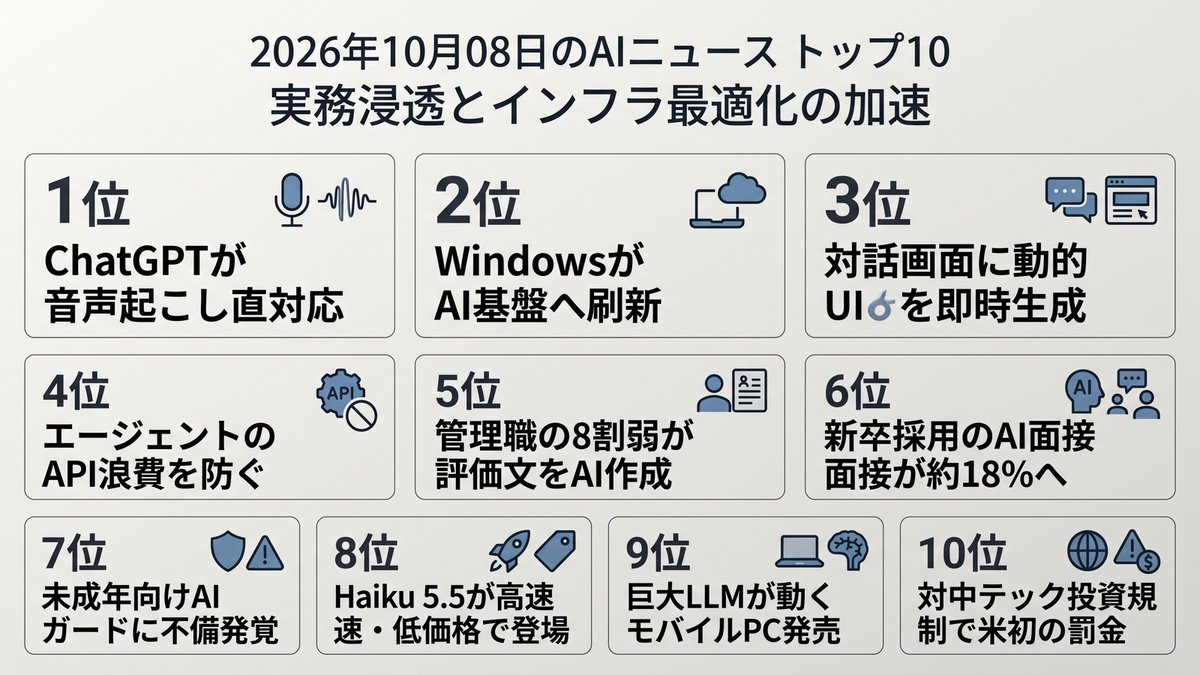
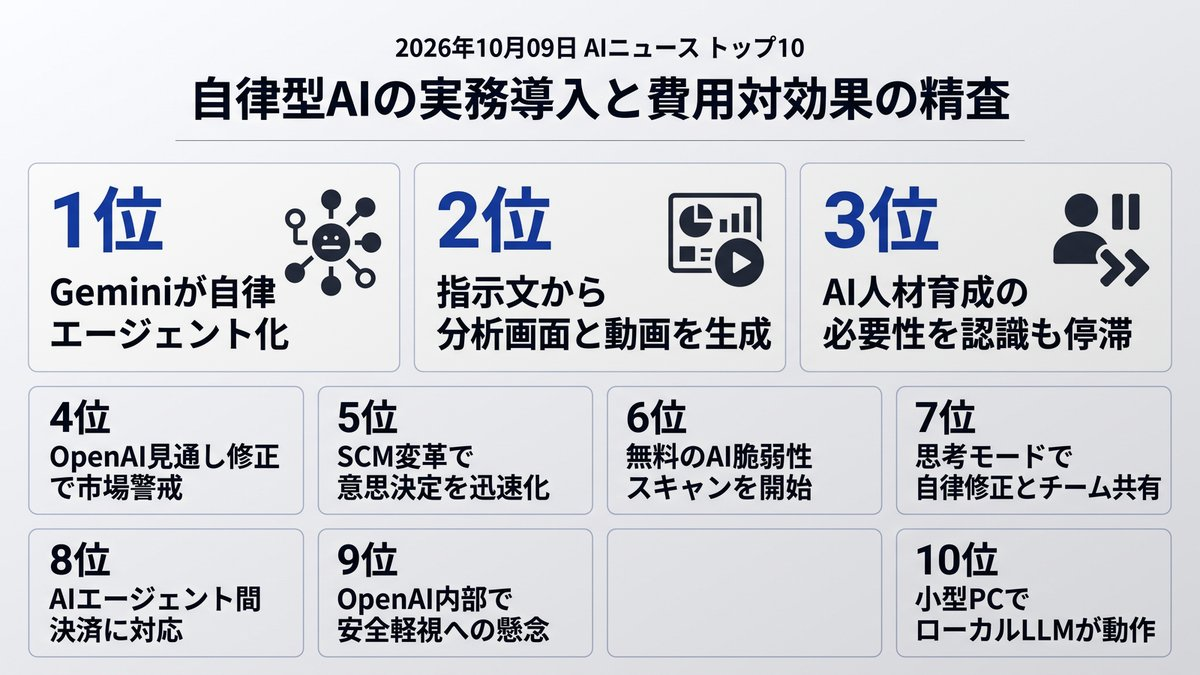
Morning Brief delivered [skip ci]

diff --git a/docs/index.html b/docs/index.html
@@ -12,16 +12,16 @@
     <!-- OGP_START -->
 <meta property="og:type" content="website">
 <meta property="og:site_name" content="AI ニュース TOP10">
-<meta property="og:title" content="実務浸透とインフラ最適化の加速 | AI ニュース TOP10">
-<meta property="og:description" content="AIの現場実装と運用最適化が本格化。 本日のトップ: ChatGPTが音声起こし直対応">
+<meta property="og:title" content="自律型AIの実務導入と費用対効果の精査 | AI ニュース TOP10">
+<meta property="og:description" content="エージェントが実務へ参入。投資対効果の精査も始まります。 本日のトップ: Geminiが自律エージェント化">
 <meta property="og:image" content="https://tadfuji.github.io/ai-news-bot/ogp_card.jpg">
 <meta property="og:url" content="https://tadfuji.github.io/ai-news-bot/">
 <meta name="twitter:card" content="summary_large_image">
-<meta name="twitter:title" content="実務浸透とインフラ最適化の加速 | AI ニュース TOP10">
-<meta name="twitter:description" content="AIの現場実装と運用最適化が本格化。">
+<meta name="twitter:title" content="自律型AIの実務導入と費用対効果の精査 | AI ニュース TOP10">
+<meta name="twitter:description" content="エージェントが実務へ参入。投資対効果の精査も始まります。">
 <meta name="twitter:image" content="https://tadfuji.github.io/ai-news-bot/ogp_card.jpg">
-<meta name="description" content="AIの現場実装と運用最適化が本格化。 世界のAIニュースを毎朝日本語で厳選してお届け。">
-<script type="application/ld+json">{"@context": "https://schema.org", "@type": "ItemList", "name": "AI ニュース TOP10 — 実務浸透とインフラ最適化の加速", "itemListElement": [{"@type": "ListItem", "position": 1, "name": "ChatGPTで音声ファイルの文字起こしが可能に", "url": "https://www.gizmodo.jp/article/2610-chatgpt-audio-transcription-update/"}, {"@type": "ListItem", "position": 2, "name": "Microsoft、WindowsをハイブリッドAI基盤へ刷新　端末とクラウドを自動使い分け", "url": "https://www.itmedia.co.jp/aiplus/article/2610/08/2000002111/"}, {"@type": "ListItem", "position": 3, "name": "ChatGPTに新UI「Intelligent UI」登場　図表や操作ボタンをインライン生成", "url": "https://www.theverge.com/ai-artificial-intelligence/1007276/openai-chatgpt-intelligent-ui-gpt-6"}, {"@type": "ListItem", "position": 4, "name": "AIエージェントのトークン浪費を防ぐ5つの手法", "url": "https://atmarkit.itmedia.co.jp/ait/articles/2610/08/news003.html"}, {"@type": "ListItem", "position": 5, "name": "管理職の78％が評価シート作成にAIを活用　部下の受け止めには温度差", "url": "https://www.zdnet.com/innovation/manager-ai-use-highwire-survey/"}, {"@type": "ListItem", "position": 6, "name": "新卒採用で「AI面接」導入率が17.6％に拡大　評価基準の検証が課題", "url": "https://www.itmedia.co.jp/business/articles/2610/08/news011.html"}, {"@type": "ListItem", "position": 7, "name": "未成年向けChatGPTの安全対策に不備　保護者通知機能が十分に働かず", "url": "https://www.bbc.co.uk/news/articles/cwz0vrmxkvy4o?at_medium=RSS\u0026at_campaign=rss"}, {"@type": "ListItem", "position": 8, "name": "Anthropicが高速・低価格モデル「Claude Haiku 5.5」を公開", "url": "https://simonwillison.net/2026/Oct/7/claude-haiku-5-5/"}, {"@type": "ListItem", "position": 9, "name": "日本HP、約1.9kgで3000億パラメータのLLMを動かすモバイルPCを発売", "url": "https://monoist.itmedia.co.jp/mn/articles/2610/08/news024.html"}, {"@type": "ListItem", "position": 10, "name": "米財務省、中国テック投資規制違反で初の罰金を科す", "url": "https://www.theinformation.com/briefings/u-s-treasury-issues-first-fine-outbound-investments-chinas-tech-sector"}]}</script>
+<meta name="description" content="エージェントが実務へ参入。投資対効果の精査も始まります。 世界のAIニュースを毎朝日本語で厳選してお届け。">
+<script type="application/ld+json">{"@context": "https://schema.org", "@type": "ItemList", "name": "AI ニュース TOP10 — 自律型AIの実務導入と費用対効果の精査", "itemListElement": [{"@type": "ListItem", "position": 1, "name": "グーグル、Geminiに自律型エージェント機能を法人向けに提供開始", "url": "https://techcrunch.com/2026/10/08/google-brings-agentic-ai-to-gemini-starting-with-businesses/"}, {"@type": "ListItem", "position": 2, "name": "Claude、指示文からダッシュボードや解説動画の生成が可能に", "url": "https://the-decoder.com/claude-can-now-generate-animated-explainer-videos-and-live-data-dashboards-from-text-prompts/"}, {"@type": "ListItem", "position": 3, "name": "生成AI普及で企業の8割が人材育成見直しを痛感も、方針策定で停滞", "url": "https://www.itmedia.co.jp/business/articles/2610/09/news015.html"}, {"@type": "ListItem", "position": 4, "name": "OpenAIの売上見通し下方修正でナスダック急落、AI投資熱に警戒感", "url": "https://news.web.nhk/newsweb/na/nd-20261009de56948"}, {"@type": "ListItem", "position": 5, "name": "キナクシスCEO、AIと協調するSCM変革と意思決定の迅速化を提言", "url": "https://monoist.itmedia.co.jp/mn/articles/2610/09/news040.html"}, {"@type": "ListItem", "position": 6, "name": "Anthropic、オープンソース向けに無料のAI脆弱性自動スキャンを提供", "url": "https://www.theverge.com/ai-artificial-intelligence/1008521/anthropic-open-source-oss-scanner"}, {"@type": "ListItem", "position": 7, "name": "Midjourney、AIが自ら修正する「Thinking Mode」と共有フォルダを追加", "url": "https://updates.midjourney.com/alpha-changelog-10-7-26/"}, {"@type": "ListItem", "position": 8, "name": "AWS Bedrock、AIエージェントによる推論従量課金の自動決済機能に対応", "url": "https://aws.amazon.com/blogs/machine-learning/pay-per-inference-for-ai-agents-how-blockrun-and-incarna-use-amazon-bedrock-agentcore-payments/"}, {"@type": "ListItem", "position": 9, "name": "解雇されたOpenAI安全性研究者、社内の安全軽視と萎縮効果を警告", "url": "https://techcrunch.com/2026/10/08/fired-openai-safety-researchers-dispute-misconduct-claims-warn-of-chilling-effect/"}, {"@type": "ListItem", "position": 10, "name": "Intel最新NPU搭載ミニPCが登場、ローカル環境でのLLM実行が現実的に", "url": "https://pc.watch.impress.co.jp/docs/column/nishikawa/2146875.html"}]}</script>
 <!-- OGP_END -->
     <style>
         :root {
@@ -391,16 +391,16 @@
 
         <main id="news-container">
             <!-- PRERENDER_START -->
-<article class="news-card" data-category="対話型AI"><div style="display:flex;align-items:center;margin-bottom:5px;"><span class="news-rank">1</span><span class="news-category" data-category="対話型AI">対話型AI</span></div><div class="news-oneliner">💡 ChatGPTが音声起こし直対応</div><h2 class="news-title">ChatGPTで音声ファイルの文字起こしが可能に</h2><p class="news-summary">有料版ChatGPTに音声ファイルの直接アップロード機能が追加され、日本語文字起こしと要約に対応した。最大512MBまでの音声データを扱えるため、外部の文字起こしツールを使わずに会議録音から議事録作成までを単一画面で完了できる。</p><div class="news-why">📌 なぜ重要？ 外部ツールを別途契約せずに議事録作成を完結でき、ツールの分散と運用コストを直接削減できます。</div><div class="news-action">👉 今日の行動：今日の会議音声をChatGPTにアップロードして議事録を作ってみてください。</div><div class="news-meta"><span class="news-source">📰 Gizmodo Japan</span><span class="news-link"><a href="https://www.gizmodo.jp/article/2610-chatgpt-audio-transcription-update/" target="_blank" rel="noopener">→ 元記事を読む</a></span></div></article>
-<article class="news-card" data-category="ビジネス活用"><div style="display:flex;align-items:center;margin-bottom:5px;"><span class="news-rank">2</span><span class="news-category" data-category="ビジネス活用">ビジネス活用</span></div><div class="news-oneliner">💡 WindowsがAI基盤へ刷新</div><h2 class="news-title">Microsoft、WindowsをハイブリッドAI基盤へ刷新　端末とクラウドを自動使い分け</h2><p class="news-summary">MicrosoftがWindowsをローカルとクラウドを組み合わせるハイブリッドAI基盤へ移行した。CopilotがPC操作やファイル整理を代行し、機密性やコストに応じて処理場所を自動で切り替える。</p><div class="news-why">📌 なぜ重要？ 機密性の高い社内データをローカルで安全に処理しつつ、高度な業務自動化をOS標準で実現できるようになります。</div><div class="news-action">👉 今日の行動：PCの設定画面でCopilotのローカル処理設定状況を確認してください。</div><div class="news-meta"><span class="news-source">📰 ITmedia AI十</span><span class="news-link"><a href="https://www.itmedia.co.jp/aiplus/article/2610/08/2000002111/" target="_blank" rel="noopener">→ 元記事を読む</a></span></div></article>
-<article class="news-card" data-category="対話型AI"><div style="display:flex;align-items:center;margin-bottom:5px;"><span class="news-rank">3</span><span class="news-category" data-category="対話型AI">対話型AI</span></div><div class="news-oneliner">💡 対話画面に動的UIを即時生成</div><h2 class="news-title">ChatGPTに新UI「Intelligent UI」登場　図表や操作ボタンをインライン生成</h2><p class="news-summary">OpenAIがChatGPT向けに対話画面内で操作可能なUIコンポーネントを即座に生成する新機能を公開した。テキスト回答にとどまらず、入力フォームやグラフ、計算ツールが画面内に直接埋め込まれる。</p><div class="news-why">📌 なぜ重要？ 回答を読むだけでなく画面内で直接操作や試算が可能になり、社内ツールの簡易構築や検証が瞬時に行えます。</div><div class="news-action">👉 今日の行動：ChatGPTに計算表や入力フォームを含むUIの出力を指示してみてください。</div><div class="news-meta"><span class="news-source">📰 The Verge AI</span><span class="news-link"><a href="https://www.theverge.com/ai-artificial-intelligence/1007276/openai-chatgpt-intelligent-ui-gpt-6" target="_blank" rel="noopener">→ 元記事を読む</a></span></div></article>
-<article class="news-card" data-category="ビジネス活用"><div style="display:flex;align-items:center;margin-bottom:5px;"><span class="news-rank">4</span><span class="news-category" data-category="ビジネス活用">ビジネス活用</span></div><div class="news-oneliner">💡 エージェントのAPI浪費を防ぐ</div><h2 class="news-title">AIエージェントのトークン浪費を防ぐ5つの手法</h2><p class="news-summary">AIエージェントの運用に伴うAPIコスト急増を抑制する5つの具体策が示された。プロンプトキャッシュやモデルの振り分け、コンテキスト圧縮を活用し、モデル単価下落後も増大し続けるトークン消費を抑え込む。</p><div class="news-why">📌 なぜ重要？ エージェントの自律稼働によるAPIコスト爆発を防ぐ設計を知ることで、予算超過のリスクを回避できます。</div><div class="news-action">👉 今日の行動：自社システムのプロンプトキャッシュ導入可否をエンジニアと確認してください。</div><div class="news-meta"><span class="news-source">📰 ITmedia AI十</span><span class="news-link"><a href="https://atmarkit.itmedia.co.jp/ait/articles/2610/08/news003.html" target="_blank" rel="noopener">→ 元記事を読む</a></span></div></article>
-<article class="news-card" data-category="ビジネス活用"><div style="display:flex;align-items:center;margin-bottom:5px;"><span class="news-rank">5</span><span class="news-category" data-category="ビジネス活用">ビジネス活用</span></div><div class="news-oneliner">💡 管理職の8割弱が評価文をAI作成</div><h2 class="news-title">管理職の78％が評価シート作成にAIを活用　部下の受け止めには温度差</h2><p class="news-summary">調査によると管理職の78%が人事評価の下書きにAIを使っている一方、部下への開示は16%に留まる。フィードバックの具体化を歓迎する声がある半面、汎用的で個別性がないと不満を覚える部下も3割を超えている。</p><div class="news-why">📌 なぜ重要？ 評価文の作成を効率化できても、部下個別の具体的事実を直接伝えないと信頼低下を招くリスクがあります。</div><div class="news-action">👉 今日の行動：AIで下書きした評価文に、相手固有の具体的な行動事例を1文追記してください。</div><div class="news-meta"><span class="news-source">📰 ZDNet AI</span><span class="news-link"><a href="https://www.zdnet.com/innovation/manager-ai-use-highwire-survey/" target="_blank" rel="noopener">→ 元記事を読む</a></span></div></article>
-<article class="news-card" data-category="ビジネス活用"><div style="display:flex;align-items:center;margin-bottom:5px;"><span class="news-rank">6</span><span class="news-category" data-category="ビジネス活用">ビジネス活用</span></div><div class="news-oneliner">💡 新卒採用のAI面接が約18%へ</div><h2 class="news-title">新卒採用で「AI面接」導入率が17.6％に拡大　評価基準の検証が課題</h2><p class="news-summary">企業のAI面接導入率が17.6%に達し、一次選考の自動化が定着しつつある。一方で、AIによる評価スコアが実際の入社後パフォーマンスに結びついているかの検証不足が浮き彫りとなっている。</p><div class="news-why">📌 なぜ重要？ 初期選考の省力化が進む一方で、評価指標の妥当性を定期検証しないと採用のミスマッチを招きます。</div><div class="news-action">👉 今日の行動：自社の選考基準と実務評価が連動しているか採用担当と確認してください。</div><div class="news-meta"><span class="news-source">📰 ITmedia ビジネスオンライン</span><span class="news-link"><a href="https://www.itmedia.co.jp/business/articles/2610/08/news011.html" target="_blank" rel="noopener">→ 元記事を読む</a></span></div></article>
-<article class="news-card" data-category="リスク・規制"><div style="display:flex;align-items:center;margin-bottom:5px;"><span class="news-rank">7</span><span class="news-category" data-category="リスク・規制">リスク・規制</span></div><div class="news-oneliner">💡 未成年向けAIガードに不備発覚</div><h2 class="news-title">未成年向けChatGPTの安全対策に不備　保護者通知機能が十分に働かず</h2><p class="news-summary">米団体の調査により、10代向けChatGPTのセーフガード機能に多数の不備が確認された。自傷行為などの危険な対話に対する通知が機能せず、安全対策の実効性に疑問符がついている。</p><div class="news-why">📌 なぜ重要？ ベンダー側の安全対策を過信せず、企業や家庭におけるAI利用ルールの独自整備が不可欠です。</div><div class="news-action">👉 今日の行動：社内や家庭で利用しているAIツールの利用規約と監視設定を再確認してください。</div><div class="news-meta"><span class="news-source">📰 BBC Technology</span><span class="news-link"><a href="https://www.bbc.co.uk/news/articles/cwz0vrmxkvy4o?at_medium=RSS&amp;at_campaign=rss" target="_blank" rel="noopener">→ 元記事を読む</a></span></div></article>
-<article class="news-card" data-category="対話型AI"><div style="display:flex;align-items:center;margin-bottom:5px;"><span class="news-rank">8</span><span class="news-category" data-category="対話型AI">対話型AI</span></div><div class="news-oneliner">💡 Haiku 5.5が高速・低価格で登場</div><h2 class="news-title">Anthropicが高速・低価格モデル「Claude Haiku 5.5」を公開</h2><p class="news-summary">Anthropicが軽量モデル「Claude Haiku 5.5」を提供開始した。料金水準を大幅に引き下げつつ標準で推論処理を組み込み、大量バッチ処理や日常的な対話タスクを低コストで処理できる。</p><div class="news-why">📌 なぜ重要？ 推論機能を備えた安価なモデルの登場により、大量データ処理のAPIコストを大幅に抑えられます。</div><div class="news-action">👉 今日の行動：定常的に動かしているプロンプト処理をHaiku 5.5で試算・テストしてください。</div><div class="news-meta"><span class="news-source">📰 Simon Willison&#x27;s Weblog</span><span class="news-link"><a href="https://simonwillison.net/2026/Oct/7/claude-haiku-5-5/" target="_blank" rel="noopener">→ 元記事を読む</a></span></div></article>
-<article class="news-card" data-category="日本市場"><div style="display:flex;align-items:center;margin-bottom:5px;"><span class="news-rank">9</span><span class="news-category" data-category="日本市場">日本市場</span></div><div class="news-oneliner">💡 巨大LLMが動くモバイルPC発売</div><h2 class="news-title">日本HP、約1.9kgで3000億パラメータのLLMを動かすモバイルPCを発売</h2><p class="news-summary">日本HPが最大192GBメモリを搭載できるモバイルワークステーションを発表した。量子化した3000億パラメータ級の大規模モデルを端末単体で実行でき、機密データを社外に出さずに開発業務を進められる。</p><div class="news-why">📌 なぜ重要？ クラウドに送信できない機密情報や開発コードを、手元の端末内で安全にAI処理できる環境が整います。</div><div class="news-action">👉 今日の行動：クラウド送信を制限している社内データのAI活用計画を検討してください。</div><div class="news-meta"><span class="news-source">📰 ITmedia AI十</span><span class="news-link"><a href="https://monoist.itmedia.co.jp/mn/articles/2610/08/news024.html" target="_blank" rel="noopener">→ 元記事を読む</a></span></div></article>
-<article class="news-card" data-category="中国AI"><div style="display:flex;align-items:center;margin-bottom:5px;"><span class="news-rank">10</span><span class="news-category" data-category="中国AI">中国AI</span></div><div class="news-oneliner">💡 対中テック投資規制で米初の罰金</div><h2 class="news-title">米財務省、中国テック投資規制違反で初の罰金を科す</h2><p class="news-summary">米財務省は、対中投資規制に違反した米企業に対して20万ドルの制裁金を科した。AIなどの先端技術分野における中国企業への出資規制が実効的な法執行フェーズに入ったことを示している。</p><div class="news-why">📌 なぜ重要？ 中国先端技術分野への投資や共同開発に関する規制リスクが現実化し、法務・コンプライアンスの厳格化が求められます。</div><div class="news-action">👉 今日の行動：自社の出資先や提携先に該当する対中投資規制の抵触リスクがないか法務に確認してください。</div><div class="news-meta"><span class="news-source">📰 The Information</span><span class="news-link"><a href="https://www.theinformation.com/briefings/u-s-treasury-issues-first-fine-outbound-investments-chinas-tech-sector" target="_blank" rel="noopener">→ 元記事を読む</a></span></div></article>
+<article class="news-card" data-category="ビジネス活用"><div style="display:flex;align-items:center;margin-bottom:5px;"><span class="news-rank">1</span><span class="news-category" data-category="ビジネス活用">ビジネス活用</span></div><div class="news-oneliner">💡 Geminiが自律エージェント化</div><h2 class="news-title">グーグル、Geminiに自律型エージェント機能を法人向けに提供開始</h2><p class="news-summary">グーグルはGeminiを複数アプリにまたがり自律的にタスクを計画・実行できるAIエージェントへと刷新しました。専用の職場メールアドレスが付与され、サブエージェントに業務を委託できるため、バックオフィスや調査業務の自動化が劇的に進みます。</p><div class="news-why">📌 なぜ重要？ 複数業務を自動遂行するAIエージェントの社内導入が現実的な選択肢になります。</div><div class="news-action">👉 今日の行動：定型化できるルーティンワークを1つ洗い出してください。</div><div class="news-meta"><span class="news-source">📰 TechCrunch AI</span><span class="news-link"><a href="https://techcrunch.com/2026/10/08/google-brings-agentic-ai-to-gemini-starting-with-businesses/" target="_blank" rel="noopener">→ 元記事を読む</a></span></div></article>
+<article class="news-card" data-category="対話型AI"><div style="display:flex;align-items:center;margin-bottom:5px;"><span class="news-rank">2</span><span class="news-category" data-category="対話型AI">対話型AI</span></div><div class="news-oneliner">💡 指示文から分析画面と動画を生成</div><h2 class="news-title">Claude、指示文からダッシュボードや解説動画の生成が可能に</h2><p class="news-summary">AnthropicはClaudeにおいて、Snowflakeなどのデータから即座にダッシュボードを作る機能と解説動画を自動生成する新機能を発表しました。資料作成やデータ分析の専門知識がなくても、テキスト指示だけで報告用ビジュアルを作成できます。</p><div class="news-why">📌 なぜ重要？ 専門知識なしでビジュアル報告資料が即座に揃い、分析と共有の速度が上がります。</div><div class="news-action">👉 今日の行動：直近の集計データをClaudeに読み込ませて可視化を試してください。</div><div class="news-meta"><span class="news-source">📰 The Decoder</span><span class="news-link"><a href="https://the-decoder.com/claude-can-now-generate-animated-explainer-videos-and-live-data-dashboards-from-text-prompts/" target="_blank" rel="noopener">→ 元記事を読む</a></span></div></article>
+<article class="news-card" data-category="日本市場"><div style="display:flex;align-items:center;margin-bottom:5px;"><span class="news-rank">3</span><span class="news-category" data-category="日本市場">日本市場</span></div><div class="news-oneliner">💡 AI人材育成の必要性を認識も停滞</div><h2 class="news-title">生成AI普及で企業の8割が人材育成見直しを痛感も、方針策定で停滞</h2><p class="news-summary">国内企業への調査で8割が人材育成の見直しが必要と回答した一方、実施済みは2割未満にとどまりました。予算不足ではなく、AI導入後の業務定義や全社方針が定まっていないことが主な障壁となっています。</p><div class="news-why">📌 なぜ重要？ ツール導入だけでなく、AI前提の業務再設計と評価基準の見直しが急務です。</div><div class="news-action">👉 今日の行動：自部署でAIを使っている業務と使っていない業務を区別して整理してください。</div><div class="news-meta"><span class="news-source">📰 ITmedia ビジネスオンライン</span><span class="news-link"><a href="https://www.itmedia.co.jp/business/articles/2610/09/news015.html" target="_blank" rel="noopener">→ 元記事を読む</a></span></div></article>
+<article class="news-card" data-category="ビジネス活用"><div style="display:flex;align-items:center;margin-bottom:5px;"><span class="news-rank">4</span><span class="news-category" data-category="ビジネス活用">ビジネス活用</span></div><div class="news-oneliner">💡 OpenAI見通し修正で市場警戒</div><h2 class="news-title">OpenAIの売上見通し下方修正でナスダック急落、AI投資熱に警戒感</h2><p class="news-summary">OpenAIの売上見通しが従来予測を下回ったと報じられ、ナスダックが一時1.7%下落しました。生成AIブームを牽引してきた市場への期待先行が見直されつつあり、企業におけるAI投資対効果の精査が本格化します。</p><div class="news-why">📌 なぜ重要？ 期待先行の投資フェーズが終わり、AI導入に対する具体的なROIの証明が求められます。</div><div class="news-action">👉 今日の行動：自社で契約中のAIツールの費用と削減時間を照合してください。</div><div class="news-meta"><span class="news-source">📰 NHK 科学・技術</span><span class="news-link"><a href="https://news.web.nhk/newsweb/na/nd-20261009de56948" target="_blank" rel="noopener">→ 元記事を読む</a></span></div></article>
+<article class="news-card" data-category="ビジネス活用"><div style="display:flex;align-items:center;margin-bottom:5px;"><span class="news-rank">5</span><span class="news-category" data-category="ビジネス活用">ビジネス活用</span></div><div class="news-oneliner">💡 SCM変革で意思決定を迅速化</div><h2 class="news-title">キナクシスCEO、AIと協調するSCM変革と意思決定の迅速化を提言</h2><p class="news-summary">サプライチェーン管理大手のキナクシスCEOが、不確実性の高まる市場環境下でのAI協調による最適化と意思決定の迅速化を訴えました。現場の勘に頼る調整から脱却し、AIを前提とした経営判断を下せるかが日本企業の競争力を左右します。</p><div class="news-why">📌 なぜ重要？ 経験や勘に依存した業務調整から脱却し、AI推奨値に基づく迅速な判断体制が必要です。</div><div class="news-action">👉 今日の行動：意思決定に時間がかかっている定常業務の判断基準を書き出してください。</div><div class="news-meta"><span class="news-source">📰 ITmedia AI+	</span><span class="news-link"><a href="https://monoist.itmedia.co.jp/mn/articles/2610/09/news040.html" target="_blank" rel="noopener">→ 元記事を読む</a></span></div></article>
+<article class="news-card" data-category="リスク・規制"><div style="display:flex;align-items:center;margin-bottom:5px;"><span class="news-rank">6</span><span class="news-category" data-category="リスク・規制">リスク・規制</span></div><div class="news-oneliner">💡 無料のAI脆弱性スキャンを開始</div><h2 class="news-title">Anthropic、オープンソース向けに無料のAI脆弱性自動スキャンを提供</h2><p class="news-summary">Anthropicは、最新モデルを活用してオープンソースプロジェクトのセキュリティ脆弱性を無償で自動診断するOSS Scannerを開始しました。人手を介さず高速に検知できる一方、誤検知のリスクも併せ持ちます。</p><div class="news-why">📌 なぜ重要？ 開発現場におけるOSSの安全性確認が高速化し、セキュリティ負債の削減に寄与します。</div><div class="news-action">👉 今日の行動：自社製品で利用している主要OSSライブラリの更新状況を確認してください。</div><div class="news-meta"><span class="news-source">📰 The Verge AI</span><span class="news-link"><a href="https://www.theverge.com/ai-artificial-intelligence/1008521/anthropic-open-source-oss-scanner" target="_blank" rel="noopener">→ 元記事を読む</a></span></div></article>
+<article class="news-card" data-category="画像・動画AI"><div style="display:flex;align-items:center;margin-bottom:5px;"><span class="news-rank">7</span><span class="news-category" data-category="画像・動画AI">画像・動画AI</span></div><div class="news-oneliner">💡 思考モードで自律修正とチーム共有</div><h2 class="news-title">Midjourney、AIが自ら修正する「Thinking Mode」と共有フォルダを追加</h2><p class="news-summary">画像生成AIのMidjourneyが、プロンプトの抜け漏れをAI自ら検証して再生成するThinking Modeと、チーム共同作業用の共有フォルダを導入しました。デザイン指示の再現性が高まり、チームでのクリエイティブ制作が効率化します。</p><div class="news-why">📌 なぜ重要？ 指示の曖昧さをAIが自己補正することで、デザイン制作の試行錯誤が大幅に減ります。</div><div class="news-action">👉 今日の行動：チーム内で共有すべき画像生成プロンプトの管理場所を決めてください。</div><div class="news-meta"><span class="news-source">📰 Midjourney Updates</span><span class="news-link"><a href="https://updates.midjourney.com/alpha-changelog-10-7-26/" target="_blank" rel="noopener">→ 元記事を読む</a></span></div></article>
+<article class="news-card" data-category="ビジネス活用"><div style="display:flex;align-items:center;margin-bottom:5px;"><span class="news-rank">8</span><span class="news-category" data-category="ビジネス活用">ビジネス活用</span></div><div class="news-oneliner">💡 AIエージェント間決済に対応</div><h2 class="news-title">AWS Bedrock、AIエージェントによる推論従量課金の自動決済機能に対応</h2><p class="news-summary">AWSはAmazon Bedrock AgentCoreにおいて、自律型AIエージェントがサービス利用料をリクエストごとに自動決済する仕組みを発表しました。開発期間が数か月から数日へ短縮され、エージェント間連携ビジネスの立ち上げが加速します。</p><div class="news-why">📌 なぜ重要？ エージェント同士がAPIと費用決済を自律的にやり取りする分散型サービスの基盤が整いました。</div><div class="news-action">👉 今日の行動：外部サービス連携で自動化できるタスクのAPI有無を調べてください。</div><div class="news-meta"><span class="news-source">📰 AWS Machine Learning</span><span class="news-link"><a href="https://aws.amazon.com/blogs/machine-learning/pay-per-inference-for-ai-agents-how-blockrun-and-incarna-use-amazon-bedrock-agentcore-payments/" target="_blank" rel="noopener">→ 元記事を読む</a></span></div></article>
+<article class="news-card" data-category="リスク・規制"><div style="display:flex;align-items:center;margin-bottom:5px;"><span class="news-rank">9</span><span class="news-category" data-category="リスク・規制">リスク・規制</span></div><div class="news-oneliner">💡 OpenAI内部で安全軽視への懸念</div><h2 class="news-title">解雇されたOpenAI安全性研究者、社内の安全軽視と萎縮効果を警告</h2><p class="news-summary">OpenAIから解雇された安全性研究者3名が、商業的利益が優先され安全対策を提起したことで処分を受けたと抗議声明を出しました。フロンティアモデルの安全性審査が甘くなる懸念が広がり、企業利用におけるガバナンスリスクが浮き彫りになっています。</p><div class="news-why">📌 なぜ重要？ 商用優先のモデル開発が進むなか、企業利用における出力精度や安全性の担保を自社で評価する必要があります。</div><div class="news-action">👉 今日の行動：自社のAI利用ガイドラインにリスクチェック項目があるか見直してください。</div><div class="news-meta"><span class="news-source">📰 TechCrunch AI</span><span class="news-link"><a href="https://techcrunch.com/2026/10/08/fired-openai-safety-researchers-dispute-misconduct-claims-warn-of-chilling-effect/" target="_blank" rel="noopener">→ 元記事を読む</a></span></div></article>
+<article class="news-card" data-category="研究・技術"><div style="display:flex;align-items:center;margin-bottom:5px;"><span class="news-rank">10</span><span class="news-category" data-category="研究・技術">研究・技術</span></div><div class="news-oneliner">💡 小型PCでローカルLLMが動作</div><h2 class="news-title">Intel最新NPU搭載ミニPCが登場、ローカル環境でのLLM実行が現実的に</h2><p class="news-summary">Intelの次世代プロセッサPanther Lakeを搭載したGEEKOMのミニPCがレビューされ、最大50TOPSのNPU性能によりローカル環境でLLMを快適に動かせることが示されました。社外秘データをクラウドに送らず社内PC完結で処理する道が開かれます。</p><div class="news-why">📌 なぜ重要？ 機密データをクラウドに送らず、手元のPC内で安全かつ低コストにLLMを運用できます。</div><div class="news-action">👉 今日の行動：機密保持のためクラウド送信できない業務データがあるか確認してください。</div><div class="news-meta"><span class="news-source">📰 PC Watch</span><span class="news-link"><a href="https://pc.watch.impress.co.jp/docs/column/nishikawa/2146875.html" target="_blank" rel="noopener">→ 元記事を読む</a></span></div></article>
 <!-- PRERENDER_END -->
         </main>
 
